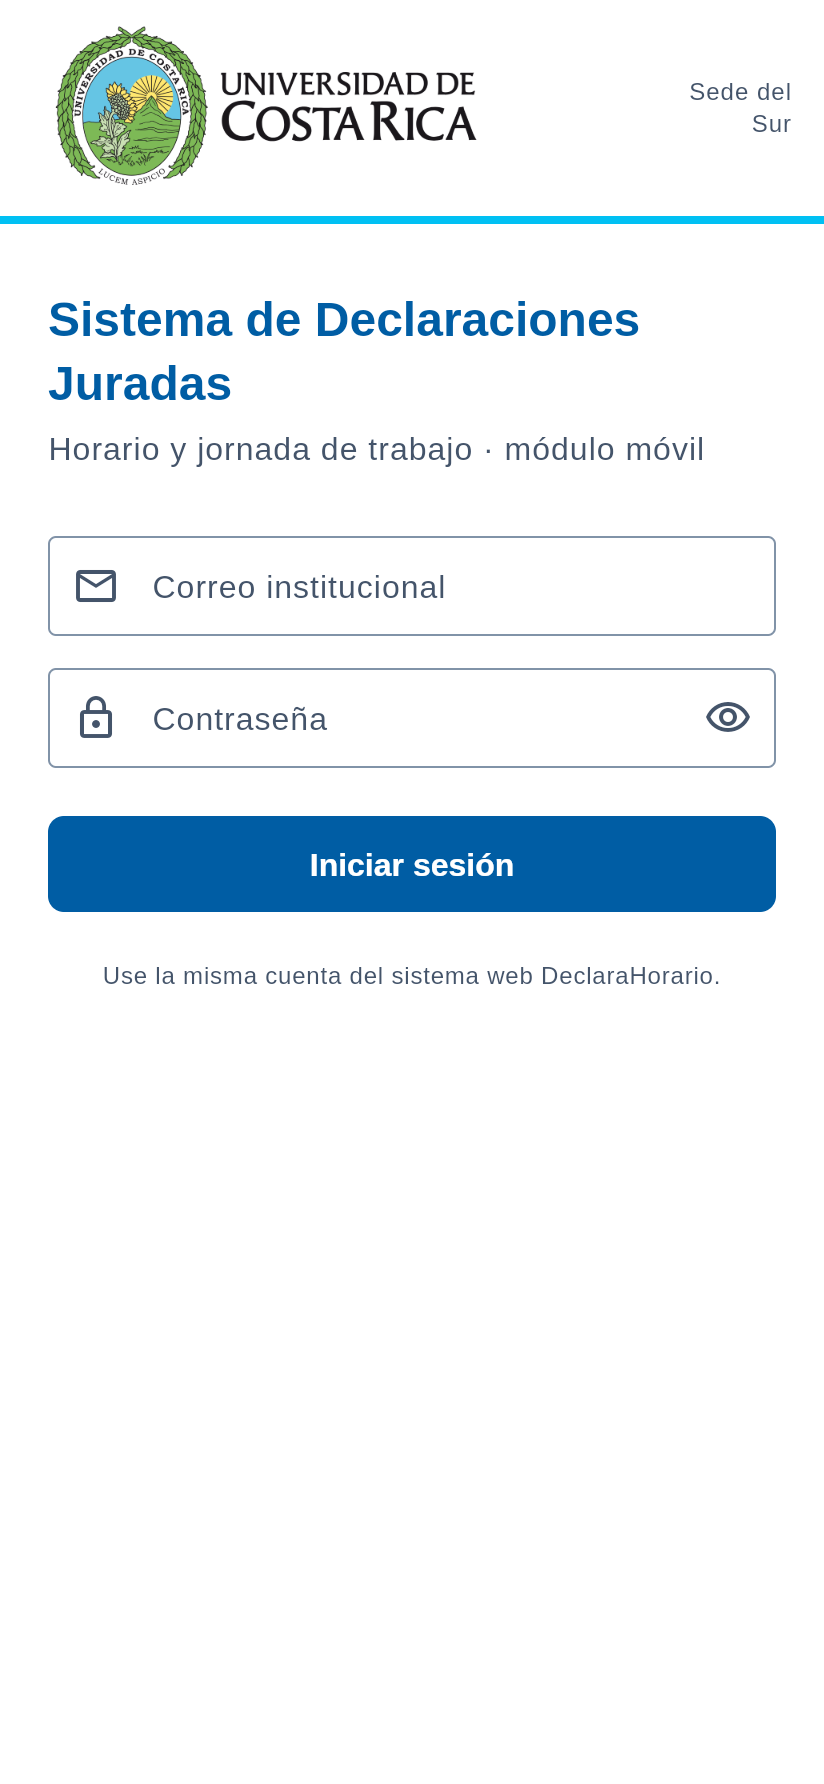
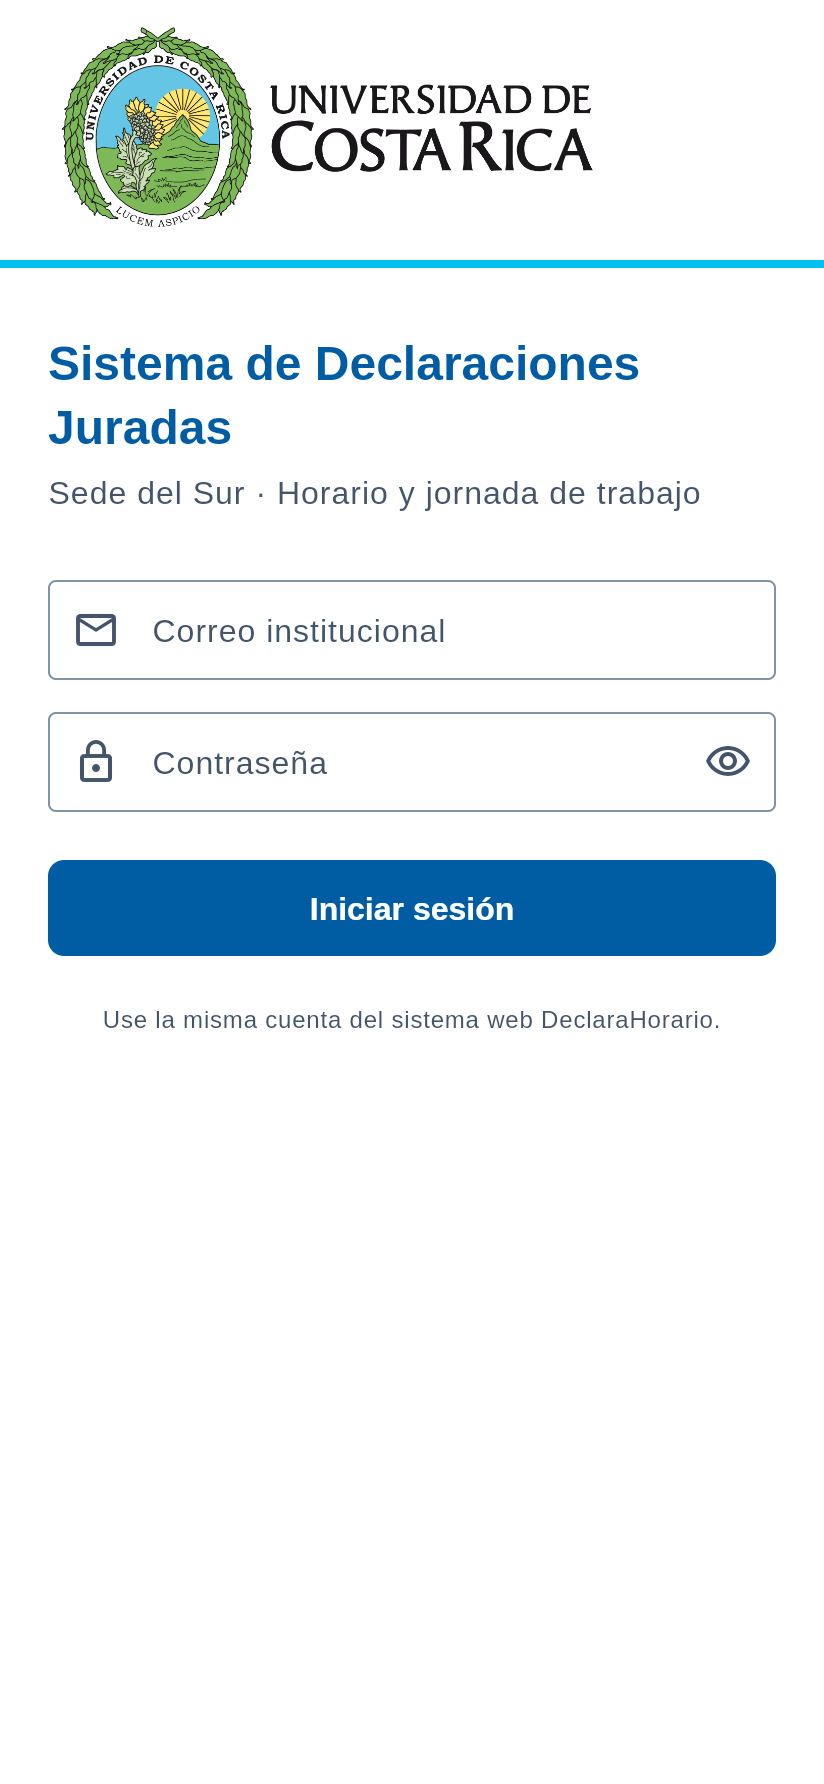
Firma del login con el tamaño mínimo del manual UCR
La firma del inicio de sesión pasa a 106 dp de alto para que el escudo
mida unos 96 dp (≈ 1,5 cm), el mínimo de la p. 37 del manual de
identidad visual. «Sede del Sur» se mueve bajo el título para respetar
el área de protección. README y captura del login actualizados.

diff --git a/lib/features/auth/login_screen.dart b/lib/features/auth/login_screen.dart
@@ -39,7 +39,10 @@ class _LoginScreenState extends State<LoginScreen> {
       body: SafeArea(
         child: Column(
           children: [
-            const UcrBrandBar(subtitle: 'Sede del Sur', signatureHeight: 84),
+            // 106 dp: el escudo mide ≈ 96 dp ≈ 1,5 cm, el tamaño mínimo del
+            // manual de identidad visual (p. 37). Sin subtítulo al lado para
+            // que la firma tenga su área de protección.
+            const UcrBrandBar(signatureHeight: 106),
             Expanded(
               child: SingleChildScrollView(
                 padding: const EdgeInsets.fromLTRB(24, 32, 24, 24),
@@ -58,7 +61,7 @@ class _LoginScreenState extends State<LoginScreen> {
                         ),
                         const SizedBox(height: 6),
                         Text(
-                          'Horario y jornada de trabajo · módulo móvil',
+                          'Sede del Sur · Horario y jornada de trabajo',
                           style: theme.textTheme.bodyLarge?.copyWith(
                             color: theme.colorScheme.onSurfaceVariant,
                           ),

diff --git a/README.md b/README.md
@@ -142,7 +142,7 @@ impreso (coinciden con las del PDF).
 | Tipografía Arimo (sustituta métrica de Arial, libre). | Myriad Pro y Trueno pueden sustituirse por Arial si no están disponibles | 24–25 |
 | Pendiente recomendado: cambiar a **Trueno**, que tiene licencia abierta y el manual la indica para medios electrónicos (en `pubspec.yaml` ya está la entrada comentada). | Trueno: sitios web y dispositivos electrónicos, licencia abierta | 25 |
 | Encabezado: firma a la izquierda sobre fondo blanco, con línea de 4 px debajo para separar del contenido; barra de navegación en azul UCR. | Cintillo celeste, azul o blanco; firma a la izquierda; línea de 4 px de separación; altura mínima 56 px | 117 |
-| Firma oficial horizontal en dos líneas, a color sobre fondo blanco, escalada en proporción (`BoxFit.contain`), con espacio libre alrededor. Alto de 56 dp en el encabezado y 84 dp en el inicio de sesión. | Firma horizontal en dos líneas; uso en medios digitales; firma a color sobre fondo claro; área de protección | 36, 39–40, 49 |
+| Firma oficial horizontal en dos líneas, a color sobre fondo blanco, escalada en proporción (`BoxFit.contain`), con espacio libre alrededor. Alto de 56 dp en el encabezado y 106 dp en el inicio de sesión. | Firma horizontal en dos líneas; uso en medios digitales; firma a color sobre fondo claro; área de protección | 36, 39–40, 49 |
 | No se reconstruye ni modifica la firma: se usa el SVG oficial publicado por la OCI, convertido a PNG sin recortar ni recolorear (ver `assets/images/LEEME.txt` y `docs/identidad/`). | Firmas con proporción única e inalterable | 32–33 |
 | Diseño plano: tarjetas sin elevación, sin gradientes ni sombras decorativas. | Uso mesurado de efectos; diseños planos que prioricen el contenido | 116, 122 |
 | Controles Material de Android (botones ≥ 48 dp, selectores de fecha y hora del sistema, hoja inferior). | Botones, íconos y fondos según los lineamientos de cada sistema operativo | 122 |
@@ -157,8 +157,10 @@ impreso (coinciden con las del PDF).
   publicada; se solicita a la OCI junto con el paquete de elementos gráficos.
 - Tamaño mínimo (p. 37): el escudo debe medir al menos 1,5 cm de ancho. En el
   encabezado (56 dp) mide unos 0,8 cm en un teléfono típico; para cumplirlo la
-  firma tendría que ocupar unos 105 dp de alto. En el inicio de sesión
-  (84 dp) mide unos 1,2 cm.
+  firma tendría que ocupar unos 105 dp de alto, demasiado para un encabezado
+  fijo. En el inicio de sesión sí se cumple: la firma mide 106 dp de alto y el
+  escudo unos 96 dp ≈ 1,5 cm (1 dp ≈ 1/160 pulgada; el tamaño físico real varía
+  un poco según el teléfono).
 - La p. 117 recomienda que la línea de separación de 4 px sea gris; la app la
   pone en celeste UCR como acento institucional.
 
